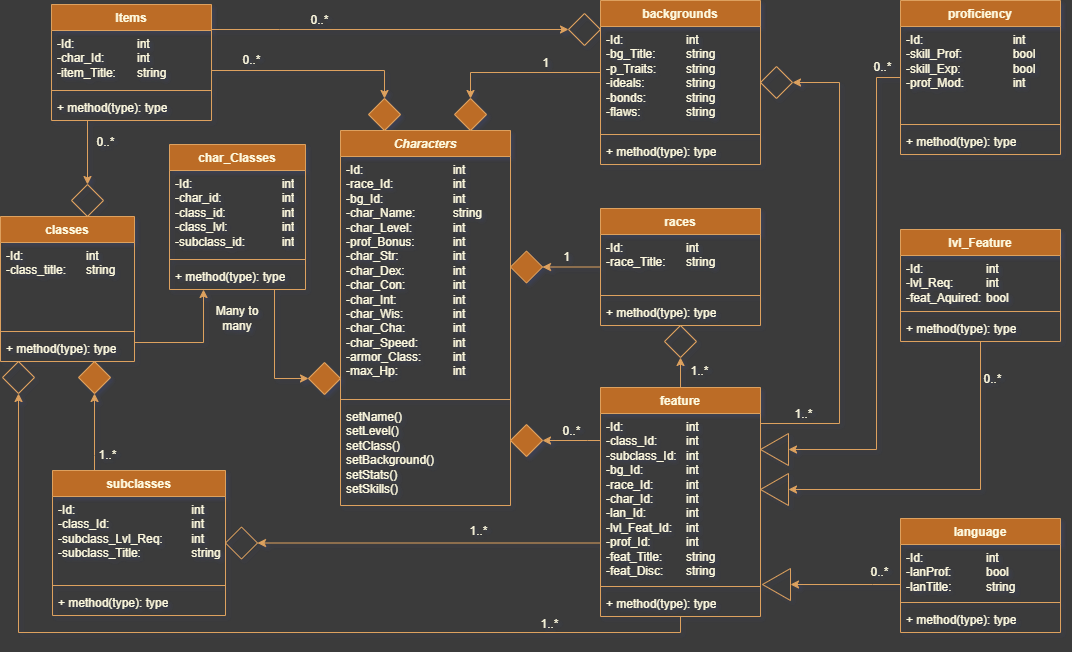
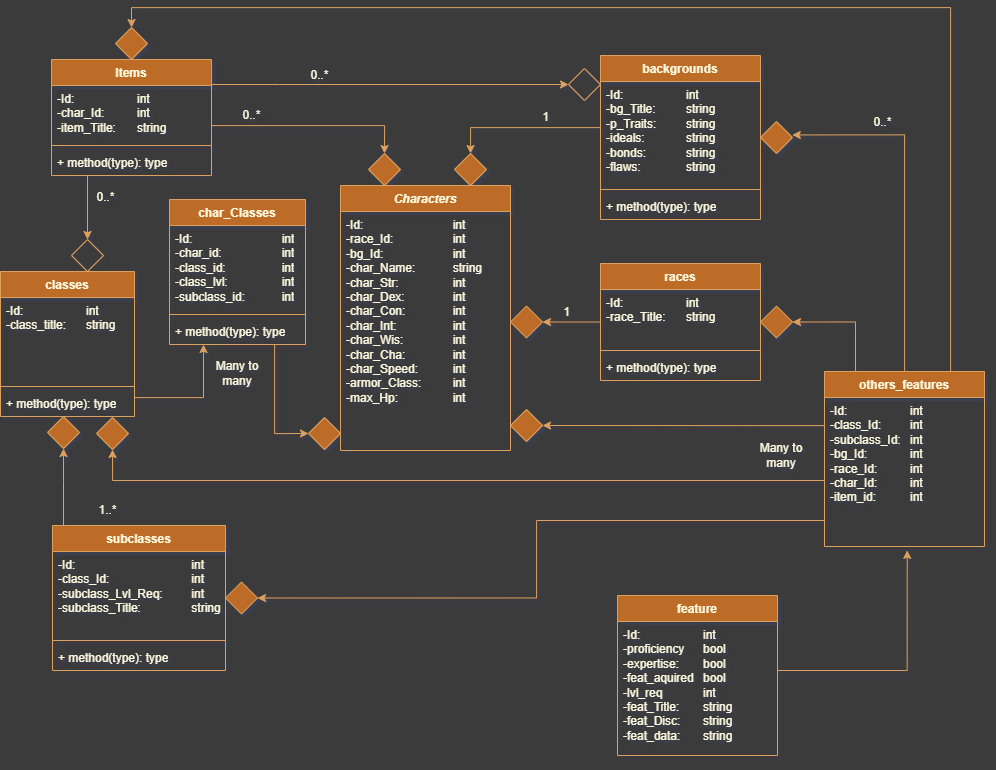
added ability score modifiers and added classes to the characterList, also changed the UML

diff --git a/charGenProject/src/components/CharacterInsert.vue b/charGenProject/src/components/CharacterInsert.vue
@@ -30,23 +30,35 @@
       </div>
 
       <div class="flex flex-col w-48 mt-2 gap-y-[2%]">
-        <div class="flex flex-row justify-between items-center">Strength: 
-          <NrSelector :input="strInput"></NrSelector>
+        <div class="flex flex-row justify-between items-center">
+          <p class="w-20">Strength:</p> 
+          <NrSelector :input="strInput" class="w-14"></NrSelector>
+          <p class="w-5">{{ abilityModifier(strInput) }}</p>
         </div>
-        <div class="flex flex-row justify-between items-center">Dexterity: 
-          <NrSelector :input="dexInput"></NrSelector>
+        <div class="flex flex-row justify-between items-center">
+          <p class="w-20">Dexterity:</p> 
+          <NrSelector :input="dexInput" class="w-14"></NrSelector>
+          <p class="w-5">{{ abilityModifier(dexInput) }}</p>
         </div>
-        <div class="flex flex-row justify-between items-center">Constitution: 
-          <NrSelector :input="conInput"></NrSelector>
+        <div class="flex flex-row justify-between items-center">
+          <p class="w-20">Constitution:</p> 
+          <NrSelector :input="conInput" class="w-14"></NrSelector>
+          <p class="w-5">{{ abilityModifier(conInput) }}</p>
         </div>
-        <div class="flex flex-row justify-between items-center">Intelligence: 
-          <NrSelector :input="intInput"></NrSelector>
+        <div class="flex flex-row justify-between items-center">
+          <p class="w-20">Intelligence:</p> 
+          <NrSelector :input="intInput" class="w-14"></NrSelector>
+          <p class="w-5">{{ abilityModifier(intInput) }}</p>
         </div>
-        <div class="flex flex-row justify-between items-center">Wisdom: 
-          <NrSelector :input="wisInput"></NrSelector>
+        <div class="flex flex-row justify-between items-center">
+          <p class="w-20">Wisdom:</p> 
+          <NrSelector :input="wisInput" class="w-14"></NrSelector>
+          <p class="w-5">{{ abilityModifier(wisInput) }}</p>
         </div>
-        <div class="flex flex-row justify-between items-center">Charisma: 
-          <NrSelector :input="chaInput"></NrSelector>
+        <div class="flex flex-row justify-between items-center">
+          <p class="w-20">Charisma:</p> 
+          <NrSelector :input="chaInput" class="w-14"></NrSelector>
+          <p class="w-5">{{ abilityModifier(chaInput) }}</p>
         </div>
       </div>
     </div>
@@ -118,35 +130,34 @@ export default {
           minValue: 1,
           maxValue: 20
         },
-        // profBonus: 2,
         strInput: {
           value: 10,
-          minValue: 0,
+          minValue: 1,
           maxValue: 20
         },
         dexInput: {
           value: 10,
-          minValue: 0,
+          minValue: 1,
           maxValue: 20
         },
         conInput: {
           value: 10,
-          minValue: 0,
+          minValue: 1,
           maxValue: 20
         },
         intInput: {
           value: 10,
-          minValue: 0,
+          minValue: 1,
           maxValue: 20
         },
         wisInput: {
           value: 10,
-          minValue: 0,
+          minValue: 1,
           maxValue: 20
         },
         chaInput: {
           value: 10,
-          minValue: 0,
+          minValue: 1,
           maxValue: 20
         },
         charOptions: {
@@ -161,7 +172,6 @@ export default {
       profBonus(){
         return Math.floor((this.charLvl.value -1) / 4) +2
       },
-
       
     },
     watch:{},
@@ -352,6 +362,15 @@ export default {
           this.classes.lvls.forEach(lvl => {
             lvl.maxValue = this.charLvl.maxValue - (this.charLvl.value - lvl.value);
           });
+        },
+
+        abilityModifier(ability){
+          if(ability.value < 12){
+            return Math.floor((ability.value) / 2) -5
+          }
+          else{
+            return "+" + String(Math.floor((ability.value) / 2) -5)
+          }
         },
 
         onWindowLoad(){

diff --git a/charGenProject/src/components/CharacterList.vue b/charGenProject/src/components/CharacterList.vue
@@ -1,14 +1,16 @@
 <template>
 <div class="row-space-around pb-2 font-bold">
-  <div class="column-elem w-[20%]">Name</div>
-  <div class="column-elem w-[20%]">Level</div>
-  <div class="column-elem w-[20%]">Race</div>
+  <div class="column-elem w-[5%]">Name</div>
+  <div class="column-elem w-[5%]">Level</div>
+  <div class="column-elem w-[5%]">Race</div>
+  <div class="column-elem w-[5%]">Class</div>
 </div>
 <!-- Makes a !!constant!! for every character in characters and adds the name, lvl and race to the list.-->
 <div v-if="characters.length !== 0" v-for="entry in characters" :key="entry.id" class="row-space-around">
-  <div class="column-elem w-[20%]">{{ entry.char_name }}</div>
-  <div class="column-elem w-[20%]">{{ charLvl(entry) }}</div>
-  <div class="column-elem w-[20%]">{{ entry.race_title }}</div>
+  <div class="column-elem w-[5%]">{{ entry.char_name }}</div>
+  <div class="column-elem w-[5%]">{{ charLvl(entry) }}</div>
+  <div class="column-elem w-[5%]">{{ entry.race_title }}</div>
+  <div class="column-elem w-[5%]">{{ charClass(entry) }}</div>
 </div>
 </template>
 <script>
@@ -68,6 +70,15 @@ export default {
         }
         else{
           return character.class_lvl
+        }
+      },
+
+      charClass(character){
+        if(Array.isArray(character.class_title)){
+          return character.class_title.toString()
+        }
+        else{
+          return character.class_title
         }
       },
 

diff --git a/charGenProject/src/assets/main.css b/charGenProject/src/assets/main.css
@@ -47,20 +47,42 @@
         font-size: var(--text-xs);
         accent-color: var(--color-mid);
         width: 130%;
+        transition: 0.2s;
     }
 
     select::-webkit-scrollbar {
         width: 0;
     }
 
-    option{
+    select:hover {
+        scale: 100% 110%;
+    }
+
+    option {
         background-color: var(--color-dark);
         accent-color: var(--color-mid);
     }
 
-    button{
+    button {
         border: 1px solid;
         border-radius: 4px;
+        transition: 0.2s;
+    }
+
+    button:hover {
+        scale: 94%;
+    }
+
+    button:active {
+        animation-name: buttonClick;
+        animation-duration: 0.5s;
+    }
+
+    @keyframes buttonClick {
+        0%      {scale: 110%;}
+        25%     {scale: 80%;}
+        50%     {scale: 105%;}
+        100%    {scale: 100%;}
     }
 }
 
@@ -142,7 +164,7 @@
 @media (width >= 48rem ){
     @layer components{
         .column-elem{
-            font-size: var(--text-sm);
+            font-size: 8pt;
         }
     }
 
@@ -158,6 +180,14 @@
         select{
             width: 150%;
             font-size: var(--text-xs);
+        }
+    }
+}
+
+@media (width >= 64rem){
+    @layer components{
+        .column-elem{
+            font-size: var(--text-sm);
         }
     }
 }
